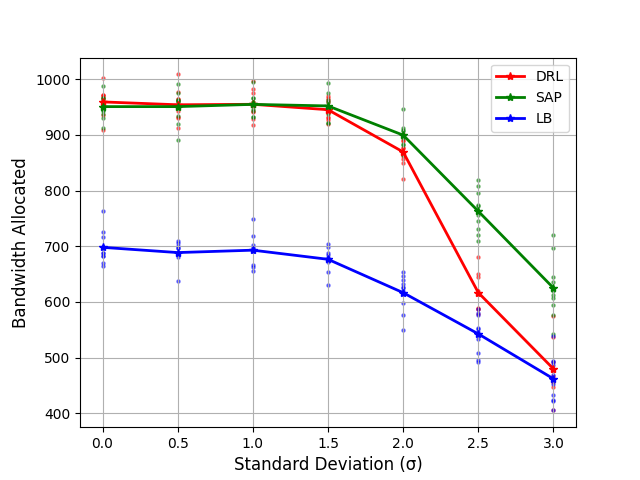
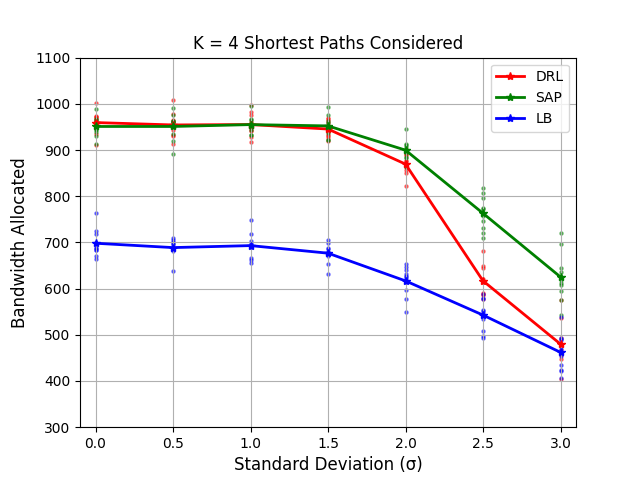
Add Boxplots

diff --git a/DQN/draw_box.py b/DQN/draw_box.py
@@ -1,0 +1,30 @@
+import matplotlib.pyplot as plt
+import os
+
+f = open("results_orig.txt", "r") #_orig_diff_capa
+
+drl = []
+sap = []
+lb = []
+
+for line in f:
+    a = []
+    a.extend([float(i) for i in line.split()])
+    drl.append(float(a[0] * 64))
+    sap.append(float(a[1] * 64))
+    lb.append(float(a[2] * 64))
+
+f.close()
+
+print(sum(drl) / len(drl), sum(sap) / len(sap))
+
+plt.boxplot([drl, sap, lb], labels=['DRL+GNN', 'SAP', 'LB'])
+plt.ylim([200, 1700])
+plt.gca().yaxis.grid(True)
+
+# plt.xlabel('Standard Deviation (\u03C3)', fontsize=12)
+plt.ylabel('Bandwidth Allocated', fontsize=12)
+    
+plt.title('Tested on GEANT2', fontsize=12)
+
+plt.show()

diff --git a/DQN/draw.py b/DQN/draw.py
@@ -1,7 +1,7 @@
 import matplotlib.pyplot as plt
 import os
 
-f = open("results.txt", "r") #_orig_diff_capa
+f = open("results_orig_diff_capa.txt", "r") #_orig_diff_capa
 
 num = []
 
@@ -11,7 +11,7 @@ for line in f:
     num.append(a)
 
 cnt = 1
-for k in [4, 6, 8, 10]:
+for k in [4]:
     x = []
     drl = []
     sap = []
